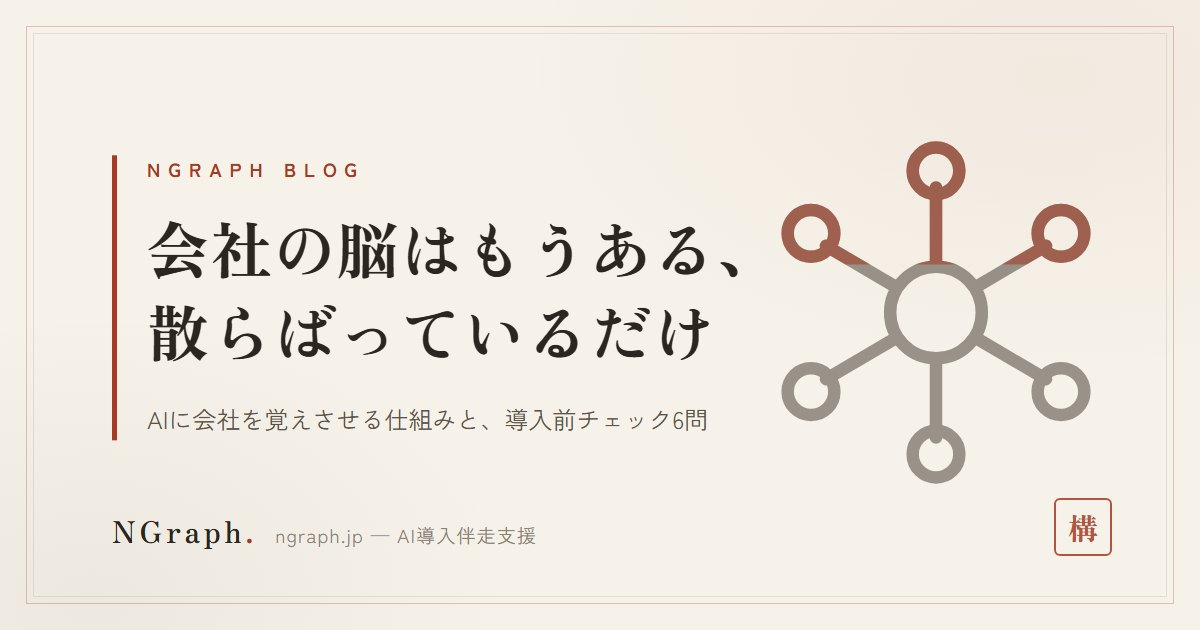
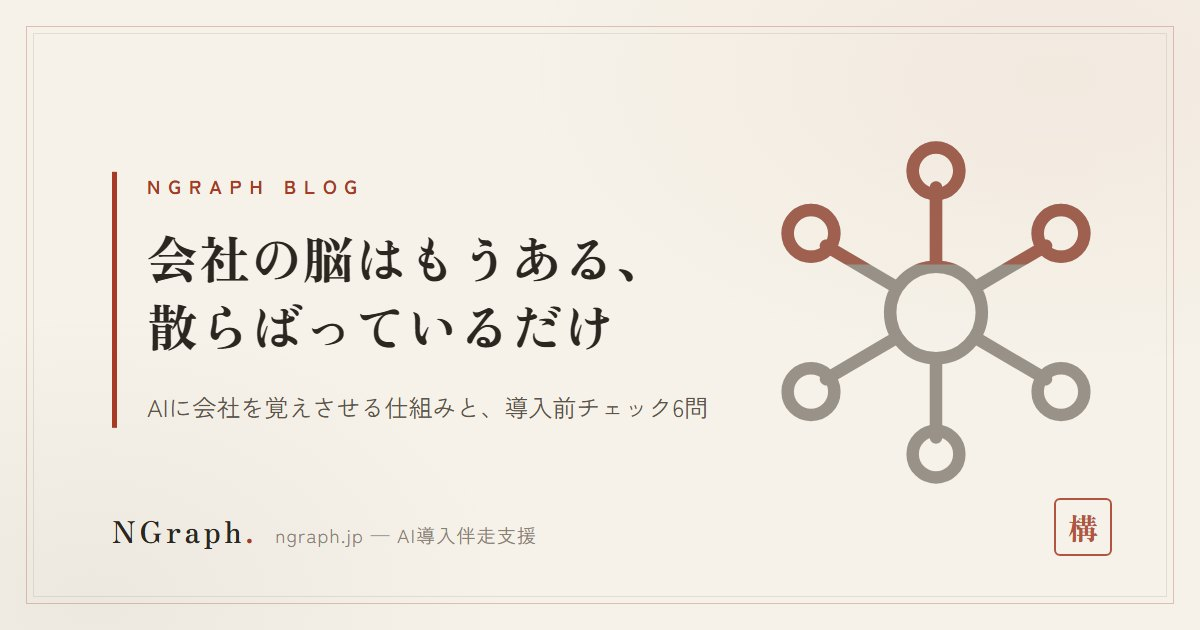
fix: 表紙検査の見逃しを是正（走査を全画素化・閾値80/50）＋旧枠画像4枚を再生成
クロスレビュー（Codex）で eyecatch_check.py の走査が粗く（x742起点・1画素飛ばし・
閾値400）、実際に本文が重なっていた 20260806-seihon-yomarenai.jpg（重なり376px）を
見逃していたことが確定した。走査域をx736起点・全画素に締め、閾値をINK_MAX80/LIMIT50
に絞った上で、旧テキスト幅(730px)で生成され検査域に食い込んでいた4枚を再生成した。
eyecatch_gen.py には級数が最小でも2行に収まらない場合のexit 3ガードも追加した。

diff --git a/scripts/eyecatch_check.py b/scripts/eyecatch_check.py
@@ -9,8 +9,13 @@ left:112 + padding30 + width730 = 右端872px、図案は right:64 + 400px = 左
 （what-is-fde・20260802-seisei-ai-gijiroku-domari など）。
 
 検査の理屈: 図案の線は opacity .5 で地色と混ざり RGB ≒ 153 になる。
-タイトルの墨は #2b2620（≒ 43）。**図案域に「最大値100未満の画素」があれば本文が入り込んでいる**。
-朱 #a63a24 は R=166 なので拾わない。目視でなく画素で判定できる。
+タイトルの墨は #2b2620（≒ 43）。**図案域に「最大値80未満の画素」があれば本文が入り込んでいる**。
+サブテキストのグレー #5c544a（≒92）は拾わない。朱 #a63a24 は R=166 なので拾わない。
+目視でなく画素で判定できる。
+
+締め直し（2026-08-09・クロスレビューで発覚）: 旧設定（x742起点・1画素飛ばし・閾値400）は
+走査が粗く、実際に本文が重なっていた `20260806-seihon-yomarenai.jpg`（重なり376px）を
+閾値400未満として見逃していた。図案の左端x736から全画素を走査し、閾値を50に締める。
 
 使い方:
     python scripts/eyecatch_check.py                 # assets/blog/*.jpg を全数検査
@@ -26,10 +31,10 @@ ROOT = os.path.dirname(os.path.dirname(os.path.abspath(__file__)))
 
 CANVAS = (1200, 630)
 # 図案の占有域（テキストが入ってきてはいけない範囲）
-X0, X1 = 742, 1140
+X0, X1 = 736, 1140
 Y0, Y1 = 90, 520
-INK_MAX = 100      # これ未満を「墨のテキスト」とみなす
-LIMIT = 400        # この画素数を超えたら重なりとする（アンチエイリアスの数十画素は許容）
+INK_MAX = 80       # これ未満を「墨のテキスト」とみなす
+LIMIT = 50         # この画素数を超えたら重なりとする（JPEGノイズの数画素は許容）
 
 
 def scan(path):
@@ -39,12 +44,12 @@ def scan(path):
         return None, "サイズが %s（想定 %s）" % (im.size, CANVAS)
     px = im.load()
     n = 0
-    for y in range(Y0, Y1, 2):
-        for x in range(X0, X1, 2):
+    for y in range(Y0, Y1):
+        for x in range(X0, X1):
             r, g, b = px[x, y]
             if max(r, g, b) < INK_MAX:
                 n += 1
-    return n * 4, None
+    return n, None
 
 
 def main():

diff --git a/scripts/eyecatch_gen.py b/scripts/eyecatch_gen.py
@@ -133,6 +133,11 @@ def fit_font_size(title):
     for fs in range(FS_MAX, FS_MIN - 1, -1):
         if _count_lines(body, fs) <= MAX_LINES:
             return fs
+    n = _count_lines(body, FS_MIN)
+    if n > MAX_LINES:
+        print("ERROR: タイトルが長すぎて%d行に収まりません（最小級数%dptでも%d行）。"
+              "タイトルを短くしてください。" % (MAX_LINES, FS_MIN, n))
+        sys.exit(3)
     return FS_MIN
 
 
